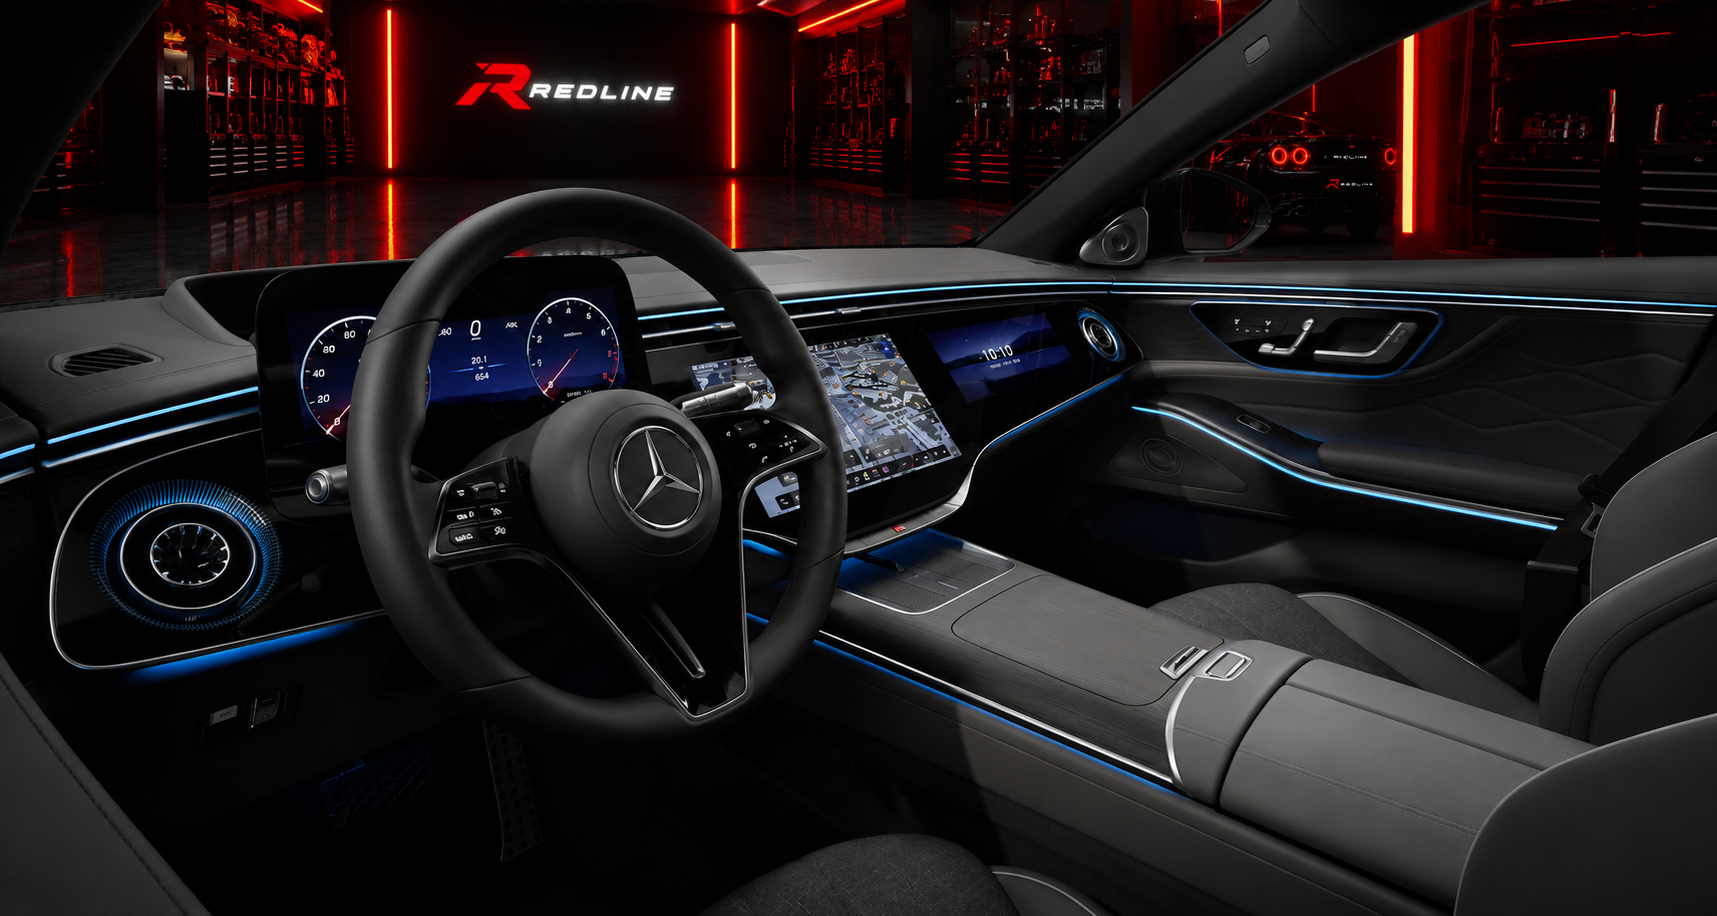
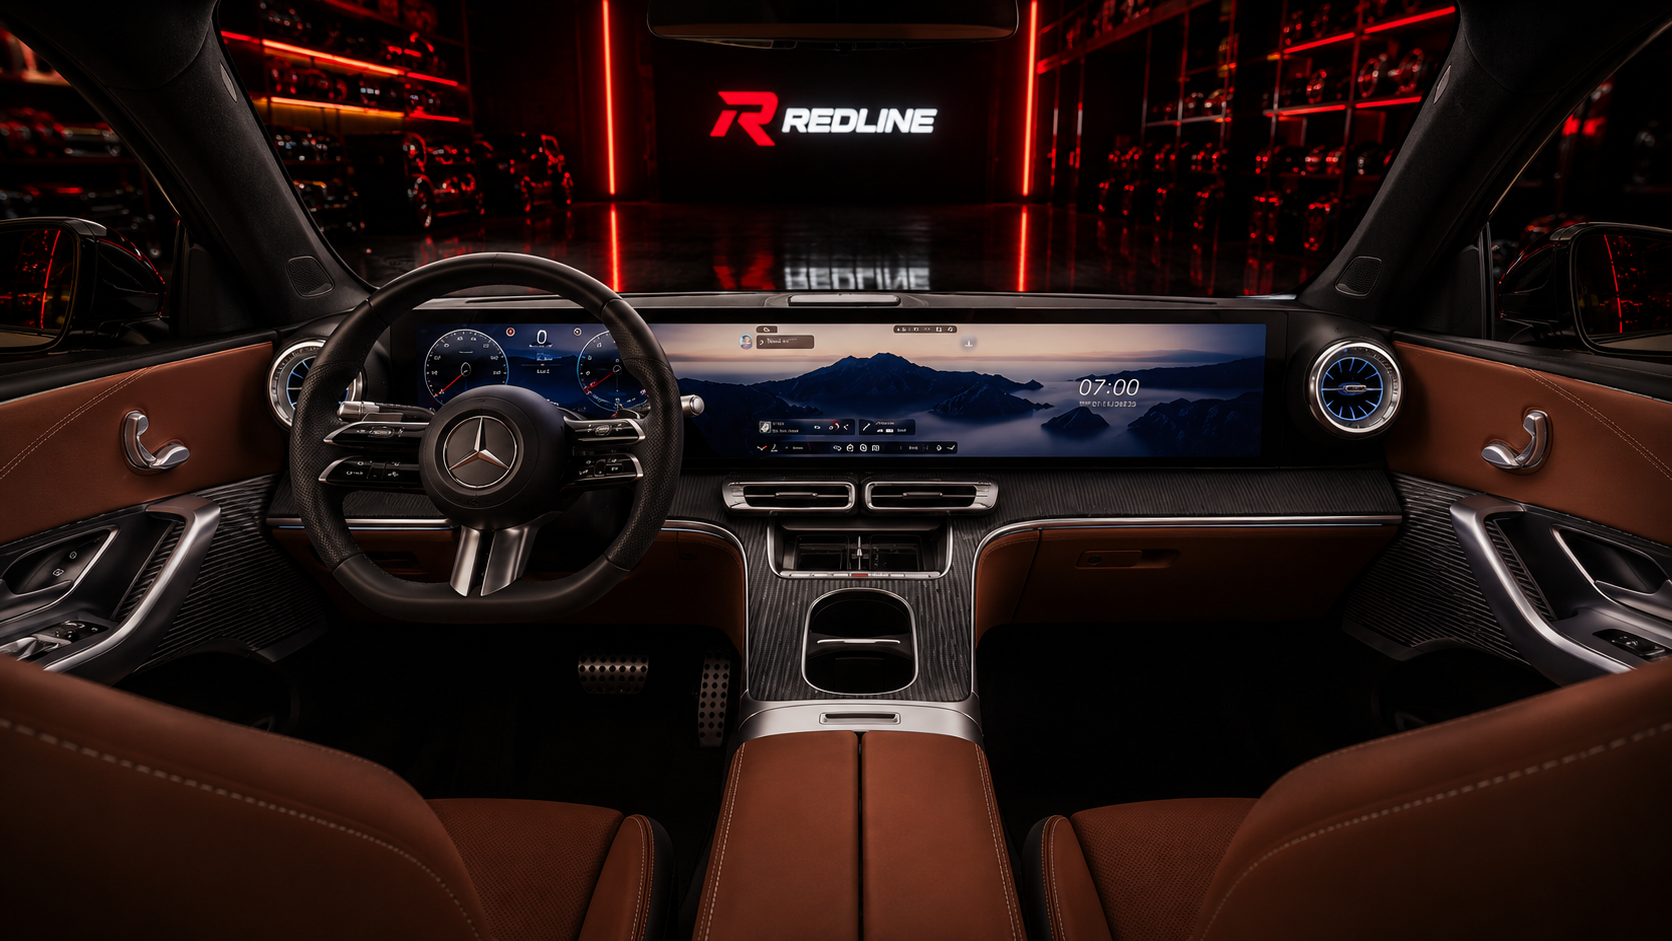
fix(brands): corrige salto no crossfade, harmoniza transição, nova foto Mercedes
O texto e o CTA não estavam posicionados em absoluto dentro do seu
AnimatePresence, por isso a cópia a sair e a a entrar ocupavam as duas
o fluxo normal (empilhadas) em vez de se sobreporem no mesmo lugar —
daí o salto ao mudar de marca. Duração/easing do título, CTA e imagem
agora alinhados (0.8s, mesma curva) para a transição sentir-se
coordenada. Substitui a foto da Mercedes (Desktop/MARCAS/MERCEDES/
MERCEDES MARCA.png) mantendo o mesmo ficheiro/predefinições.

diff --git a/src/components/BrandShowcase.tsx b/src/components/BrandShowcase.tsx
@@ -137,7 +137,7 @@ export function BrandShowcase() {
           initial={{ opacity: 0 }}
           animate={{ opacity: 1 }}
           exit={{ opacity: 0 }}
-          transition={{ duration: 1, ease: [0.22, 1, 0.36, 1] }}
+          transition={{ duration: 0.8, ease: [0.22, 1, 0.36, 1] }}
         >
           {/* preenche a secção de ponta a ponta — sem gaps laterais, imagem estática (sem zoom). */}
           <img
@@ -164,15 +164,20 @@ export function BrandShowcase() {
       {/* Título/subtítulo — canto superior-esquerdo. Posição independente do
           resto do conteúdo (que continua ancorado ao fundo), por isso vive
           fora do fluxo flex da secção, tal como a imagem e os overlays. */}
-      <div className="absolute inset-x-0 top-0 z-10 px-4 pt-5 sm:px-6 sm:pt-6 lg:px-8 lg:pt-8">
+      <div className="absolute inset-x-0 top-0 z-10">
         <AnimatePresence>
+          {/* O próprio motion.div tem de estar posicionado em absoluto — caso
+              contrário, durante o crossfade, a cópia que está a sair e a que
+              está a entrar ocupam as duas o fluxo normal (uma por cima da
+              outra em vez de sobrepostas no mesmo lugar), o que dava o
+              "salto"/bug ligeiro no texto ao mudar de marca. */}
           <motion.div
             key={active.slug}
             initial={{ opacity: 0, y: -16 }}
             animate={{ opacity: 1, y: 0 }}
             exit={{ opacity: 0, y: 8 }}
-            transition={{ duration: 0.6, ease: [0.22, 1, 0.36, 1] }}
-            className="max-w-md"
+            transition={{ duration: 0.8, ease: [0.22, 1, 0.36, 1] }}
+            className="absolute inset-x-0 top-0 max-w-md px-4 pt-5 sm:px-6 sm:pt-6 lg:px-8 lg:pt-8"
           >
             <h2 className="text-2xl font-bold leading-[0.95] md:text-4xl">{active.headline}</h2>
             <p className="mt-2 max-w-sm text-sm text-muted-foreground md:text-base">{active.subtitle}</p>
@@ -186,15 +191,19 @@ export function BrandShowcase() {
           forçam a caixa a encolher-se e a centrar-se, seja qual for o
           alinhamento pedido ao conteúdo lá dentro). Mesmo padding do resto
           da secção (edge-to-edge, sem limite de 1400px). */}
-      <div className="relative z-10 px-4 pb-4 sm:px-6 md:pb-5 lg:px-8">
+      <div className="relative z-10 h-11 px-4 pb-4 sm:px-6 md:h-12 md:pb-5 lg:px-8">
         <AnimatePresence>
+          {/* Mesma correção do bloco de título: motion.div em absoluto para a
+              cópia a sair e a entrar ficarem sobrepostas, não empilhadas. A
+              altura fixa acima (h-11/md:h-12, igual à do botão) garante que a
+              barra de marcas por baixo nunca salta durante a transição. */}
           <motion.div
             key={active.slug}
             initial={{ opacity: 0, y: 16 }}
             animate={{ opacity: 1, y: 0 }}
             exit={{ opacity: 0, y: -8 }}
-            transition={{ duration: 0.6, ease: [0.22, 1, 0.36, 1] }}
-            className="ml-auto max-w-md text-right"
+            transition={{ duration: 0.8, ease: [0.22, 1, 0.36, 1] }}
+            className="absolute right-4 top-0 sm:right-6 lg:right-8"
           >
             <Button
               asChild
